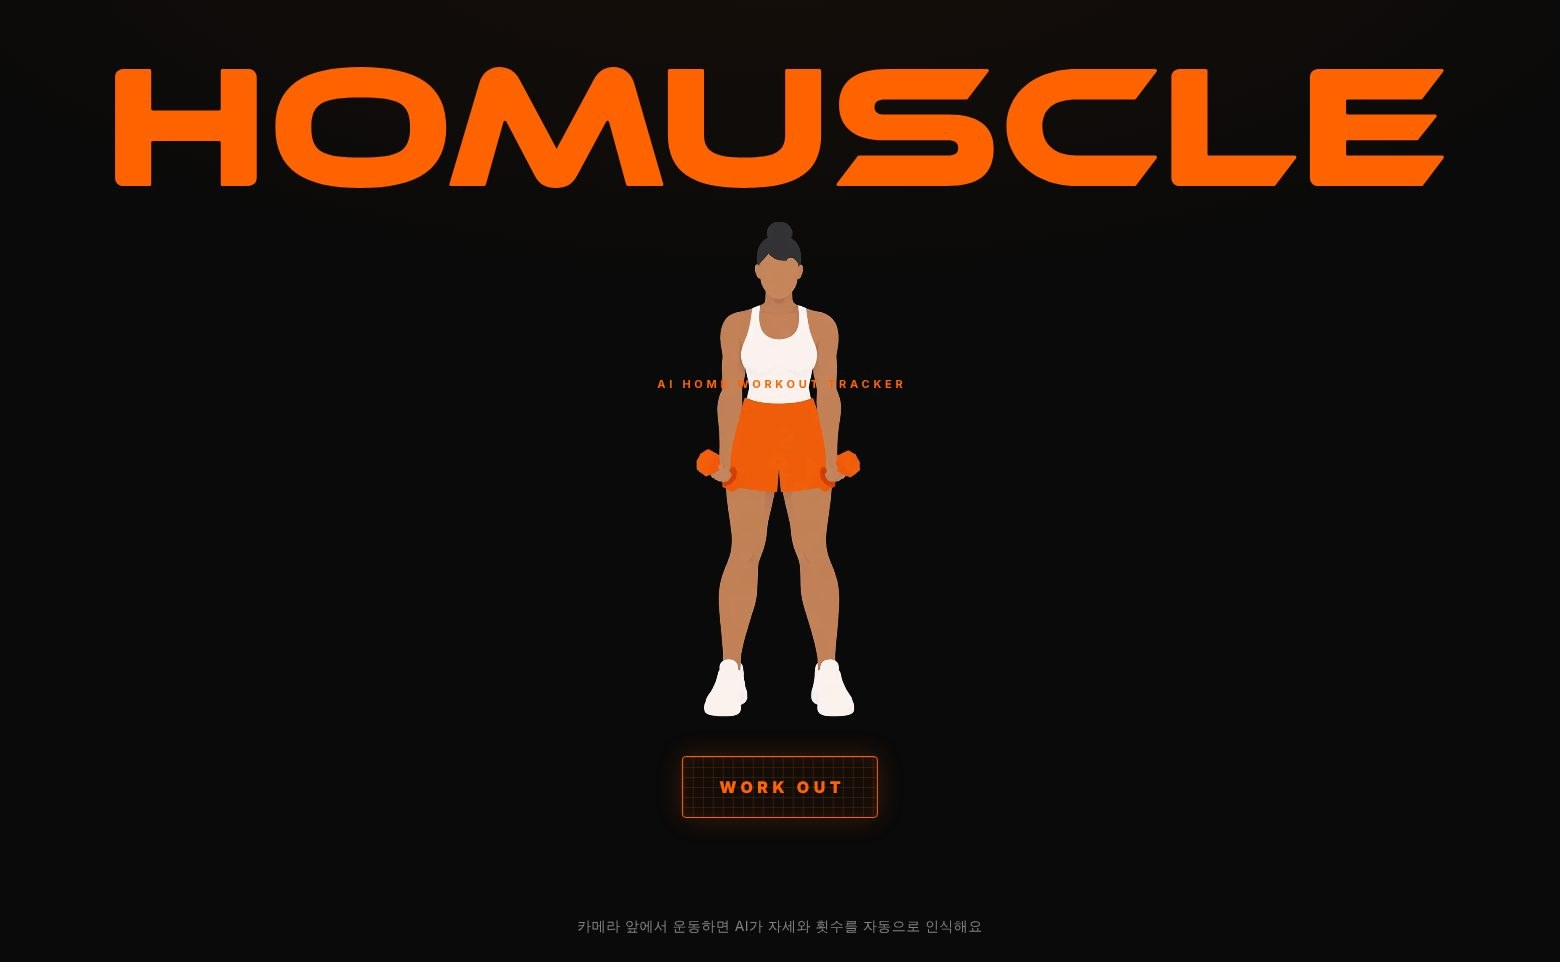
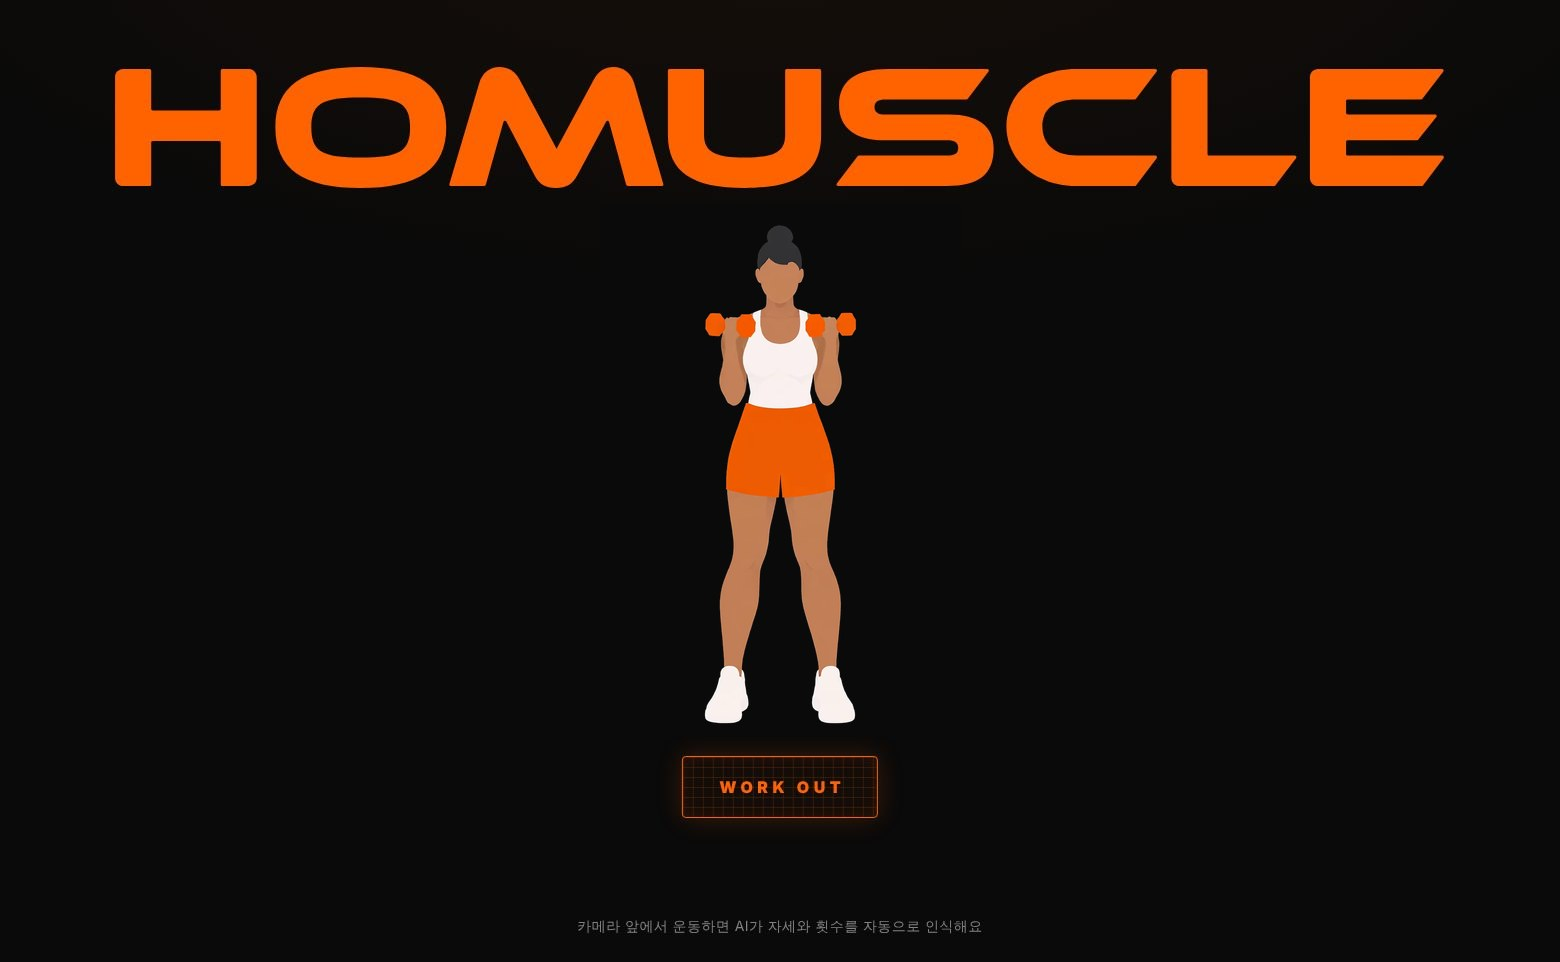
style(home): 내 말풍선 이모지 제거, HOMUSCLE 썸네일 덤벨 컬 동작으로 교체
Claude-Session: https://claude.ai/code/session_01Psbk9YYjufSd9okXBJVz2w

diff --git a/index.html b/index.html
@@ -37,7 +37,7 @@
   .hero-dark .msg-bubble { color: #e1dfde; }
   .hero-dark .msg-bubble.ai { background: rgba(255,255,255,0.06); border-color: rgba(255,255,255,0.1); }
   .hero-dark .msg-bubble.me { background: #fff; color: #0b0b0c; }
-  .hero-dark .msg-avatar.me { background: rgba(255,255,255,0.12); }
+  .hero-dark .msg-avatar.me { display: none; }
   .hero-dark .typing-dots span { background: #848281; }
   .hero-dark #home-clock { color: #666463; text-align: center; }
   @media (max-width: 600px) { .hero-dark .hero { padding-top: 92px; } .hero-dark .hero-title { font-size: 26px; } }
@@ -210,7 +210,7 @@
       </div>
       <div class="work-item-right work-item-right-hm">
         <span data-i18n="home.work-item-type.2" class="work-item-type">웹앱</span>
-        <img src="images/homuscle/thumbnail.jpg?v=20261008" alt="HOMUSCLE 앱 인트로 화면"/>
+        <img src="images/homuscle/thumbnail.jpg?v=20261008b" alt="HOMUSCLE 앱 인트로 화면"/>
       </div>
     </div>
 
